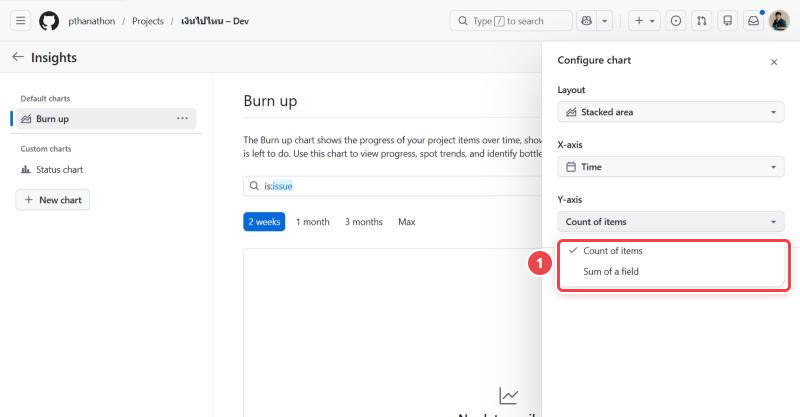
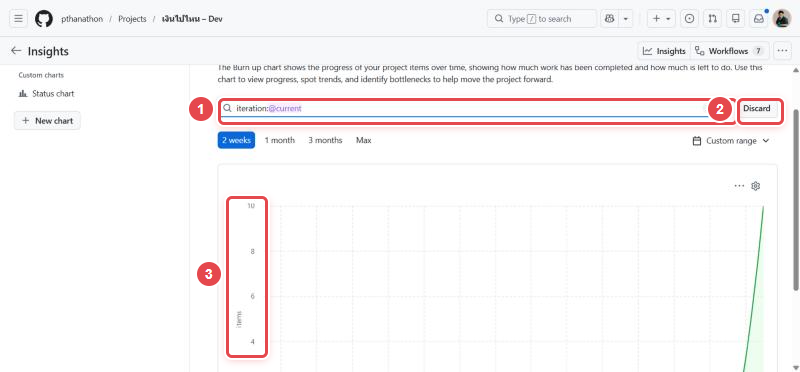
คู่มือ: เพิ่มขั้นตอนสร้างกราฟ Sprint burndown
ภาพจริง 6 ขั้น: filter iteration:@current, Configure, Layout,
X-axis = Time, Y-axis = Sum of a field → Story point แล้ว Save to new chart
พร้อมวิธีอ่านกราฟแบบ burndown และวิธีทำกราฟ velocity

diff --git a/docs/github-projects-practice.html b/docs/github-projects-practice.html
@@ -70,7 +70,7 @@ footer { margin-top:64px; padding-top:20px; border-top:1px solid var(--line); fo
   <li><a href="#p3">4. ตั้งค่า Project</a></li>
   <li><a href="#p4">5. ทำ backlog และแบ่ง sprint</a></li>
   <li><a href="#p5">6. ตั้งระบบอัตโนมัติ</a></li>
-  <li><a href="#p6">7. ดูรายงาน (burn up)</a></li>
+  <li><a href="#p6">7. สร้างกราฟ burndown (burn up)</a></li>
   <li><a href="#points">Story points</a></li>
   <li><a href="#epic-sprint">Epic กับ Sprint</a></li>
   <li><a href="#backlog">Backlog ตัวอย่าง</a></li>
@@ -79,7 +79,7 @@ footer { margin-top:64px; padding-top:20px; border-top:1px solid var(--line); fo
 <main>
 <header>
   <h1>ฝึกใช้ <span class="tag">GitHub Projects</span> แทน Jira</h1>
-  <p class="lead">คู่มือแบบภาพ 27 ขั้น ภาพทุกภาพถ่ายจากหน้าจอ GitHub จริงของ Project <a href="https://github.com/users/pthanathon/projects/22">เงินไปไหน – Dev</a> เมื่อ 28 ต.ค. 2569 เลขในวงกลมแดงในภาพตรงกับเลขในคำอธิบายใต้ภาพ</p>
+  <p class="lead">คู่มือแบบภาพ 32 ขั้น ภาพทุกภาพถ่ายจากหน้าจอ GitHub จริงของ Project <a href="https://github.com/users/pthanathon/projects/22">เงินไปไหน – Dev</a> เมื่อ 28 ต.ค. 2569 เลขในวงกลมแดงในภาพตรงกับเลขในคำอธิบายใต้ภาพ</p>
 </header>
 
 <section id="map">
@@ -94,7 +94,7 @@ footer { margin-top:64px; padding-top:20px; border-top:1px solid var(--line); fo
 <tr><td>Sprint board</td><td>view <b>Board</b> กรอง <code>iteration:@current</code></td><td></td></tr>
 <tr><td>Fix version</td><td><b>Milestone</b></td><td></td></tr>
 <tr><td>Component</td><td><b>Label</b></td><td></td></tr>
-<tr><td>Burndown</td><td>Insights → <b>Burn up</b></td><td>ไม่มี burndown ในตัว ใช้ burn up แทน (ขั้นที่ 25–27)</td></tr>
+<tr><td>Burndown</td><td>Insights → <b>Burn up</b></td><td>ไม่มี burndown ในตัว ใช้ burn up แทน (ขั้นที่ 25–32)</td></tr>
 </tbody></table></div>
 </section>
 
@@ -385,13 +385,13 @@ body:
 </section>
 
 <section id="p6">
-<h2><span class="n">7</span>ดูรายงาน (burn up)</h2>
-<p class="part-lead">ใช้แทน burndown ของ Jira</p>
+<h2><span class="n">7</span>สร้างกราฟ burndown (burn up)</h2>
+<p class="part-lead">GitHub ไม่มี burndown ในตัว แต่ตั้งกราฟ Burn up ให้นับแต้มของ sprint ปัจจุบันแล้วอ่านส่วนงานค้างแทนได้</p>
 
   <article class="step" id="step-25">
     <header><span class="num">25</span><h3>กราฟ Burn up</h3><a class="open" href="https://github.com/users/pthanathon/projects/22/insights" target="_blank" rel="noopener">เปิดหน้านี้ ↗</a></header>
     <figure><img src="images/steps/step-25.png" alt="ขั้นที่ 25: กราฟ Burn up" width="800" height="417" loading="lazy"></figure>
-    <ol class="notes"><li><b>Burn up</b> มีให้ในบัญชีส่วนตัวแบบฟรีด้วย (ตรวจเมื่อ 28 ต.ค. 2569)</li><li>เปลี่ยน filter เป็น <code>iteration:@current</code> เพื่อดูเฉพาะ sprint นี้</li><li>กด <b>Configure</b> เพื่อเปลี่ยนสิ่งที่นับ (ขั้นที่ 27)</li></ol>
+    <ol class="notes"><li><b>Burn up</b> มีให้ในบัญชีส่วนตัวแบบฟรีด้วย (ตรวจเมื่อ 28 ต.ค. 2569)</li><li>ช่อง filter ใช้เลือกว่าจะนับ item ไหน (ขั้นที่ 27)</li><li>กด <b>Configure</b> เพื่อเปลี่ยนแกนและรูปแบบกราฟ (ขั้นที่ 28)</li></ol>
     
     
     
@@ -409,13 +409,63 @@ body:
   </article>
 
   <article class="step" id="step-27">
-    <header><span class="num">27</span><h3>นับเป็นแต้มแทนจำนวน issue</h3></header>
-    <figure><img src="images/steps/step-27.png" alt="ขั้นที่ 27: นับเป็นแต้มแทนจำนวน issue" width="800" height="417" loading="lazy"></figure>
-    <ol class="notes"><li>ที่ Y-axis เลือก <b>Sum of a field</b> แล้วเลือก <b>Story point</b> กราฟจะเป็น burn up ตามแต้ม แล้วกด <b>Save to new chart</b></li></ol>
+    <header><span class="num">27</span><h3>สร้างกราฟ Sprint burndown (1/6): กรองเฉพาะ sprint นี้</h3></header>
+    <figure><img src="images/steps/step-27.png" alt="ขั้นที่ 27: สร้างกราฟ Sprint burndown (1/6): กรองเฉพาะ sprint นี้" width="800" height="417" loading="lazy"></figure>
+    <ol class="notes"><li>ในหน้า Burn up พิมพ์ <code>iteration:@current</code> ในช่อง filter แล้วกด Enter เลข 3 ท้ายช่องคือ sprint นี้มี 3 ใบ (ใช้ <code>iteration:"Iteration 1"</code> ถ้าอยากดู sprint ที่ระบุชื่อ)</li><li><b>Discard</b> ยกเลิก filter กลับเป็นค่าเดิม ตอนนี้ยังไม่ต้องกด</li><li>แกน Y เปลี่ยนตามสิ่งที่นับ ภาพนี้ตั้งเป็นผลรวมแต้มไว้แล้ว (ขั้นที่ 31) จึงขึ้นถึง 10 แต้ม</li></ol>
     
     
-    <p class="callout">GitHub ไม่มี burndown แบบมีเส้นอุดมคติให้ในตัว ถ้าทีมต้องการจริงๆ ต้องใช้เครื่องมือเสริม หรือเขียน GitHub Action ดึงข้อมูลมาวาดเอง</p>
+    <p class="callout"><code>@current</code> เลื่อนไป sprint ถัดไปเองเมื่อเปลี่ยนรอบ กราฟที่บันทึกไว้จึงใช้ได้ทุก sprint ไม่ต้องสร้างใหม่</p>
     
+  </article>
+
+  <article class="step" id="step-28">
+    <header><span class="num">28</span><h3>สร้างกราฟ Sprint burndown (2/6): เปิด Configure</h3></header>
+    <figure><img src="images/steps/step-28.png" alt="ขั้นที่ 28: สร้างกราฟ Sprint burndown (2/6): เปิด Configure" width="800" height="417" loading="lazy"></figure>
+    <ol class="notes"><li><b>Layout</b>: รูปแบบกราฟ (ขั้นที่ 29)</li><li><b>X-axis</b>: แกนนอน (ขั้นที่ 30)</li><li><b>Y-axis</b>: สิ่งที่นับ ค่าเริ่มต้นคือ Count of items นับจำนวน issue (ขั้นที่ 31)</li></ol>
+    
+    
+    
+    
+  </article>
+
+  <article class="step" id="step-29">
+    <header><span class="num">29</span><h3>สร้างกราฟ Sprint burndown (3/6): Layout</h3></header>
+    <figure><img src="images/steps/step-29.png" alt="ขั้นที่ 29: สร้างกราฟ Sprint burndown (3/6): Layout" width="800" height="417" loading="lazy"></figure>
+    <ol class="notes"><li><b>Stacked area</b> (ค่าเริ่มต้น) ซ้อนพื้นที่งานเสร็จกับงานค้างไว้ อ่านง่ายที่สุด</li><li><b>Line</b> แยกเป็นเส้น ใช้ดูเส้นงานค้าง (Open) อย่างเดียวได้ชัดกว่า เส้นนี้ก็คือเส้น burndown</li></ol>
+    
+    
+    
+    
+  </article>
+
+  <article class="step" id="step-30">
+    <header><span class="num">30</span><h3>สร้างกราฟ Sprint burndown (4/6): X-axis = Time</h3></header>
+    <figure><img src="images/steps/step-30.png" alt="ขั้นที่ 30: สร้างกราฟ Sprint burndown (4/6): X-axis = Time" width="800" height="417" loading="lazy"></figure>
+    <ol class="notes"><li>ใช้ <b>Time</b> (กลุ่ม Historical) แกนนอนเป็นวันที่ เห็นว่างานค้างลดลงวันต่อวันอย่างไร</li><li>ฟิลด์ด้านล่าง เช่น Iteration หรือ Status เป็นกราฟแบบ "ภาพ ณ ตอนนี้" ไม่มีเส้นเวลา ใช้ทำกราฟ velocity ได้ (ดูหมายเหตุในขั้นที่ 32)</li></ol>
+    
+    
+    
+    
+  </article>
+
+  <article class="step" id="step-31">
+    <header><span class="num">31</span><h3>สร้างกราฟ Sprint burndown (5/6): Y-axis = Sum of a field</h3></header>
+    <figure><img src="images/steps/step-31.png" alt="ขั้นที่ 31: สร้างกราฟ Sprint burndown (5/6): Y-axis = Sum of a field" width="800" height="417" loading="lazy"></figure>
+    <ol class="notes"><li>เลือก <b>Sum of a field</b> เพื่อนับเป็นผลรวมแต้มแทนจำนวน issue (issue 13 แต้มกับ 1 แต้มจะได้ไม่นับเท่ากัน)</li></ol>
+    
+    
+    
+    
+  </article>
+
+  <article class="step" id="step-32">
+    <header><span class="num">32</span><h3>สร้างกราฟ Sprint burndown (6/6): เลือก Story point แล้วบันทึก</h3></header>
+    <figure><img src="images/steps/step-32.png" alt="ขั้นที่ 32: สร้างกราฟ Sprint burndown (6/6): เลือก Story point แล้วบันทึก" width="800" height="417" loading="lazy"></figure>
+    <ol class="notes"><li><b>Y-axis field</b> เลือก <b>Story point</b> (ต้องเป็นฟิลด์ชนิด Number เท่านั้น ฟิลด์ Single select จะไม่ขึ้นในรายการนี้)</li><li>กด <b>Save to new chart</b> กราฟจะไปอยู่ใต้ Custom charts ทางซ้าย ตั้งชื่อเช่น "Sprint burndown" ได้จากเมนู ⋯ ข้างชื่อกราฟ</li></ol>
+    
+    
+    <p class="callout">กราฟ velocity (แต้มที่ทำเสร็จต่อ sprint): กด <b>+ New chart</b> → Configure ตั้ง Layout = Stacked column, X-axis = <b>Iteration</b>, Group by = <b>Status</b>, Y-axis = Sum of a field → <b>Story point</b> แท่งส่วน Done ของแต่ละ sprint คือ velocity ใช้ประมาณว่า sprint หน้ารับงานได้กี่แต้ม</p>
+    <p class="callout warn">อ่านกราฟเป็น burndown: ดู<b>ส่วน Open</b> ซึ่งคือแต้มที่ยังค้างอยู่ ควรลดลงจนเหลือ 0 ในวันสุดท้ายของ sprint แต่งานจะนับว่าเสร็จก็ต่อเมื่อ <b>issue ถูกปิด</b> (workflow Auto-close issue ปิดให้เมื่อย้ายการ์ดไป Done) และ GitHub ไม่มีเส้นอุดมคติให้ ต้องเทียบในใจว่าควรลดลงวันละเท่าไร</p>
   </article>
 </section>
 
